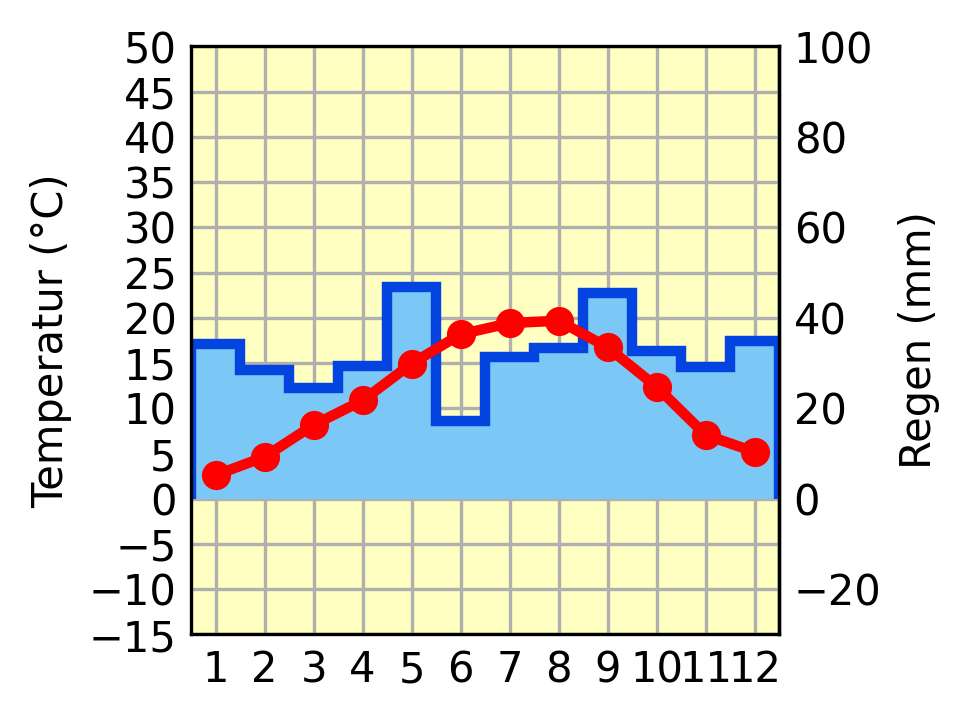
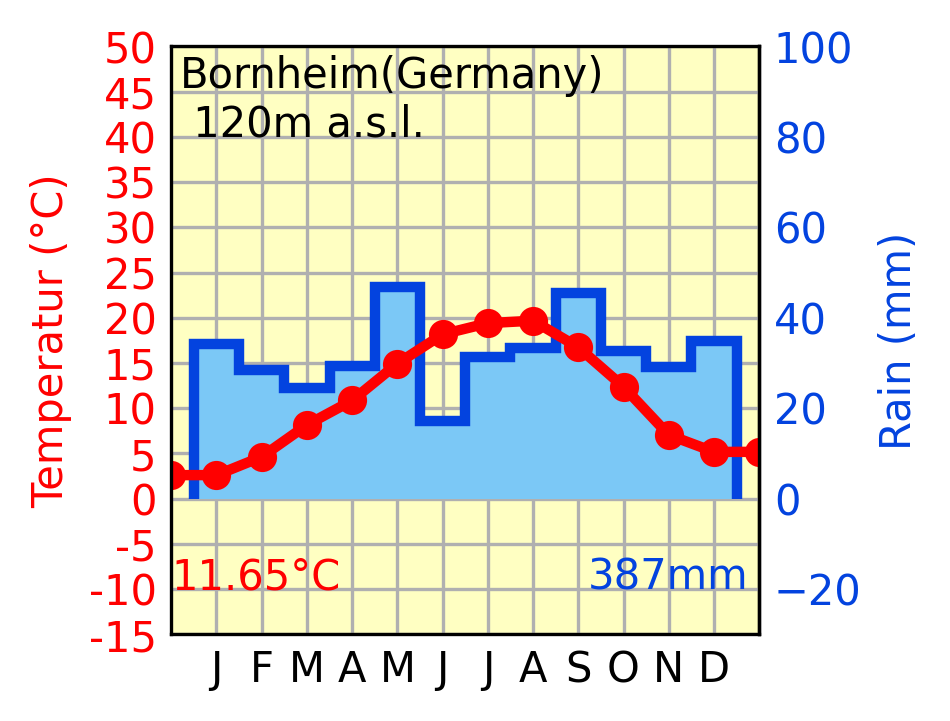
added typical style of climate diagram and changed colors

Changed region(s): [[0.0305, 0.0305, 0.9158, 0.9764], [0.9158, 0.3051, 0.9768, 0.6713], [0.2442, 0.6103, 0.3053, 0.6408]]

diff --git a/main.py b/main.py
@@ -82,8 +82,16 @@ def generate_climate_diagram():
     df = pd.read_csv(climate_data_file, sep=";", decimal=",")
 
     rain = df["Regen/Monat(mm)"].to_numpy()
+    sum_of_rain = rain.sum()
+
     temperature = df["Temperatur Aussen(℃)"].to_numpy()
+    mean_temperature = temperature.mean()
+
+    temperature = np.append(temperature, temperature[-1])
+    temperature = np.insert(temperature, 0, temperature[0])
+
     months = np.arange(1, 13)
+    months_extended = np.arange(0,14)
 
     plt.style.use("_mpl-gallery")
 
@@ -113,21 +121,29 @@ def generate_climate_diagram():
     )
 
     # Temperaturkurve
-    ax1.plot(months, temperature, color="red", linewidth=2.5, marker="o")
+    ax1.plot(months_extended, temperature, color="red", linewidth=2.5, marker="o")
 
     # Linke Achse = Temperatur
-    ax1.set_xlim(0.5, 12.5)
+    ax1.set_xlim(0, 13)
     ax1.set_xticks(np.arange(1, 13))
+    ax1.set_xticklabels(['J', 'F', 'M', 'A', 'M', 'J', 'J', 'A', 'S', 'O', 'N', 'D'])
     ax1.set_ylim(-15, 50)
     ax1.set_yticks(np.arange(-15, 51, 5))
-    ax1.set_ylabel("Temperatur (°C)")
+    ax1.set_yticklabels(np.arange(-15, 51, 5), color="red")
+    ax1.set_ylabel("Temperatur (°C)", color="red")
+    
 
     # Rechte Achse = Regen
     ax2 = ax1.secondary_yaxis(
         "right",
         functions=(lambda y: y * 2, lambda y: y / 2)
     )
-    ax2.set_ylabel("Regen (mm)")
+    ax2.set_ylabel("Rain (mm)", color="xkcd:blue")
+    ax2.tick_params(axis="y", colors="xkcd:blue")
+
+    plt.text(0, -10, f"{mean_temperature:.2f}°C", color="red")
+    plt.text(9.2, -10, f"{int(sum_of_rain)}mm", color="xkcd:blue")
+    plt.text(0.2, 40, "Bornheim(Germany)\n 120m a.s.l.")
 
     plt.savefig("climate_diagram.png", dpi=300, bbox_inches="tight")
     plt.close()